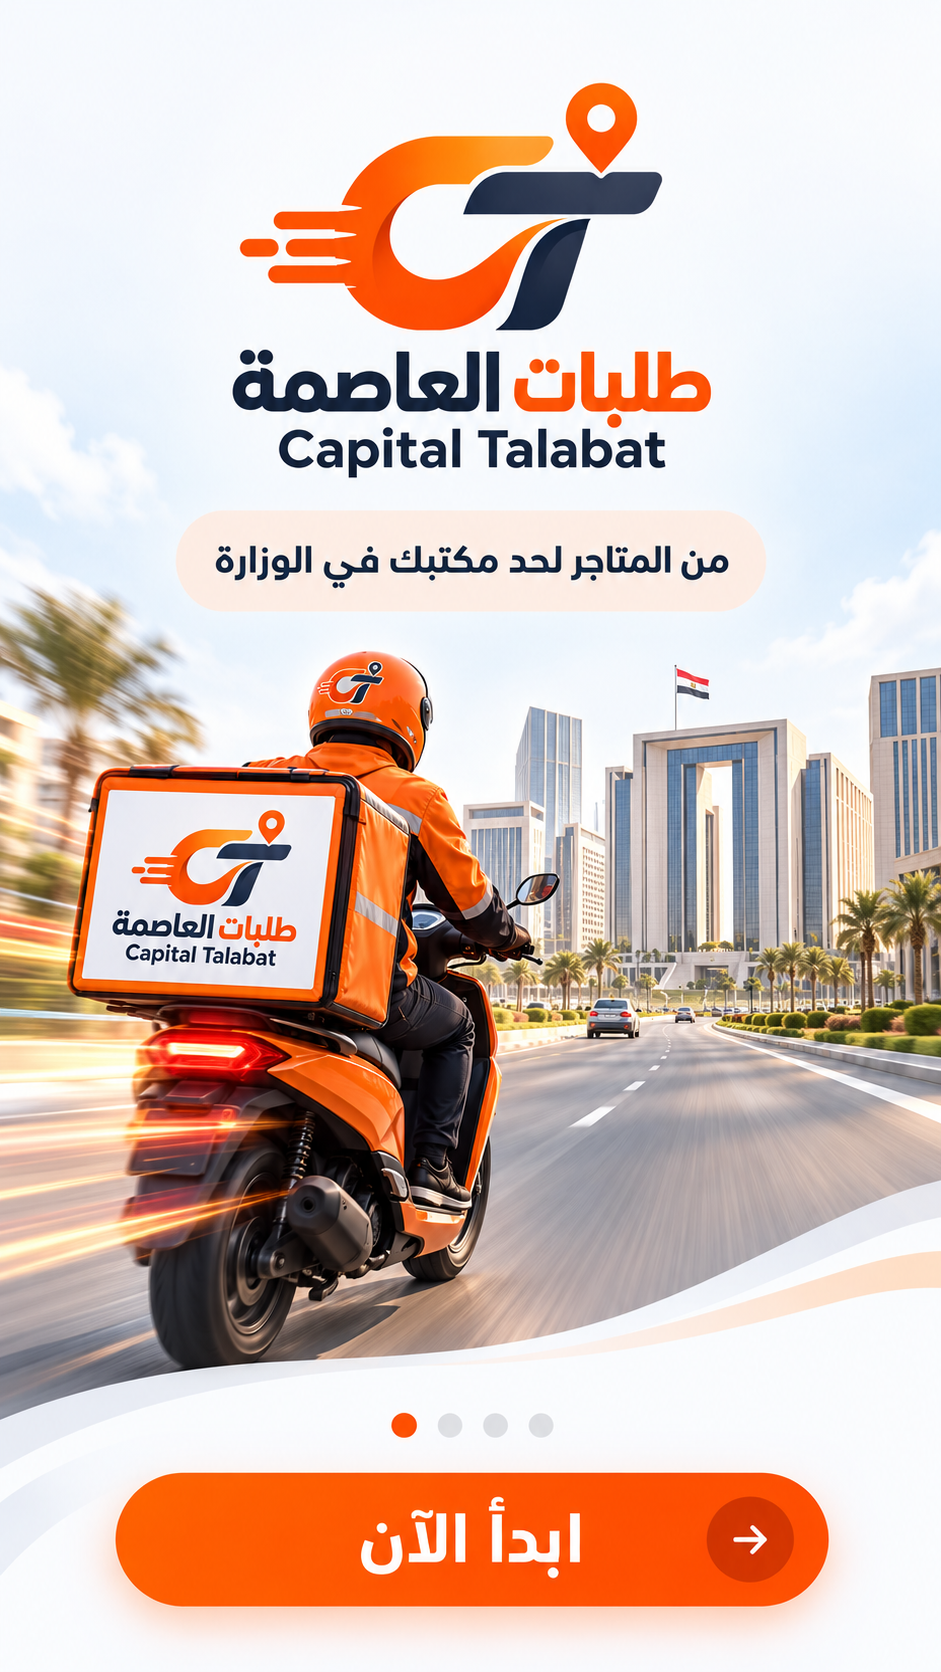
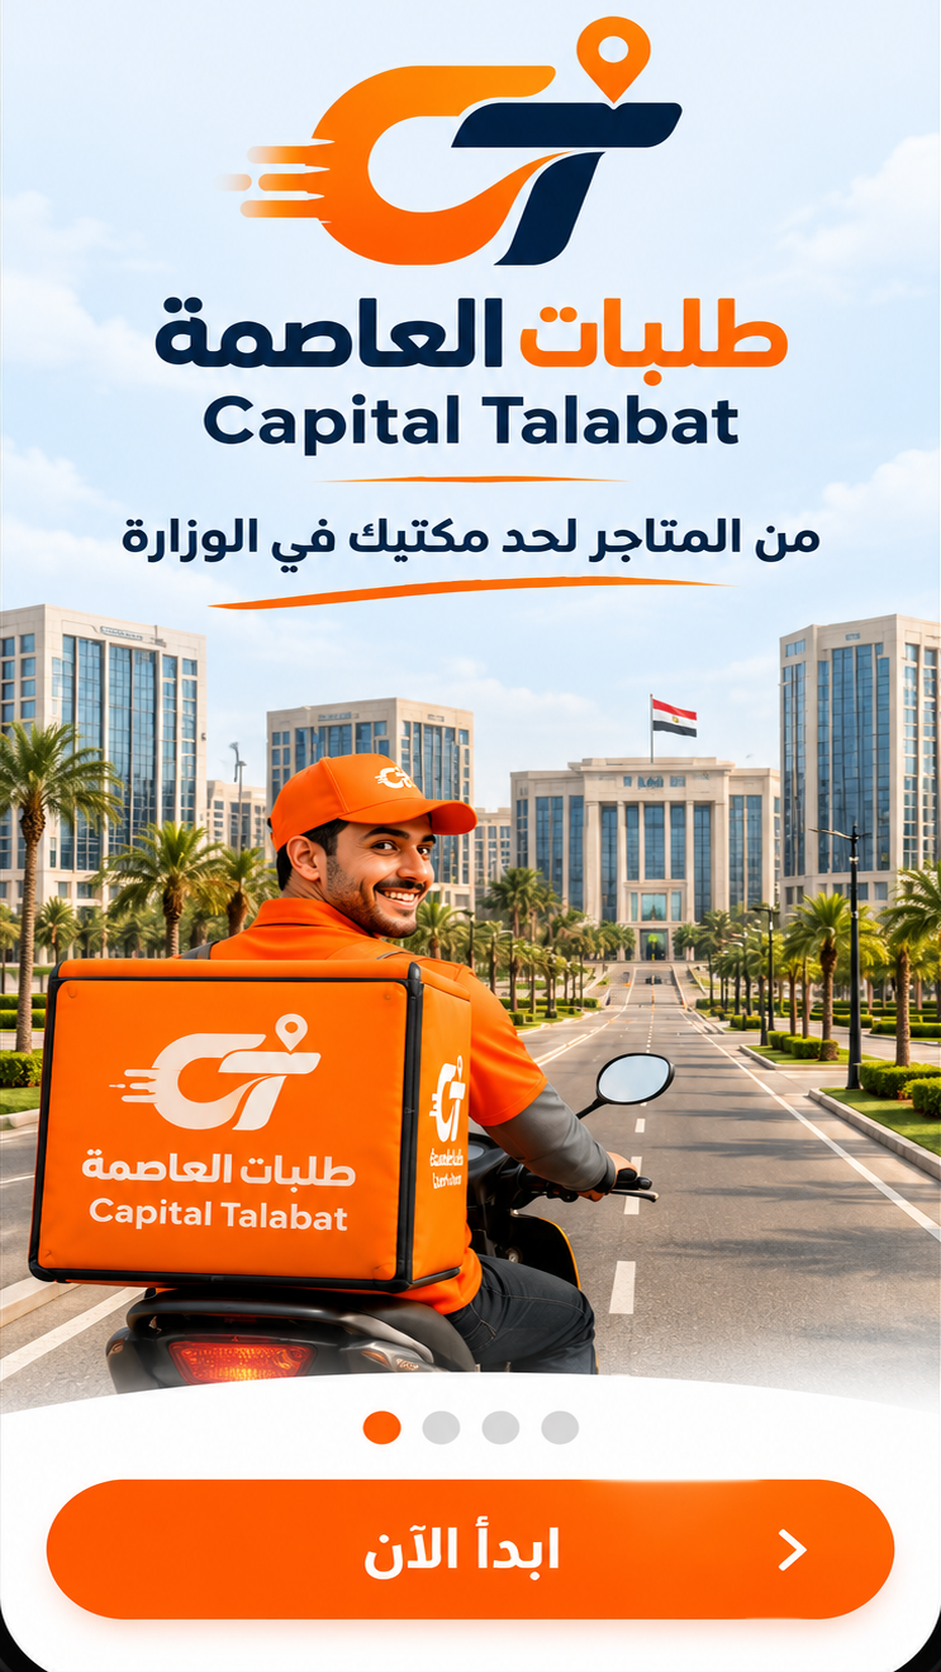
fix(onboarding): replace screen 1 graphic with borderless smiling courier and align tap targets

diff --git a/mobile_app/lib/screens/onboarding/onboarding_screen.dart b/mobile_app/lib/screens/onboarding/onboarding_screen.dart
@@ -73,14 +73,14 @@ class _OnboardingScreenState extends State<OnboardingScreen> {
               if (index == 0) ...[
                 // Screen 1: "ابدأ الآن" full-width orange pill button
                 Positioned(
-                  left: 110,
-                  top: 1400,
-                  width: 720,
-                  height: 210,
+                  left: 45,
+                  top: 1475,
+                  width: 850,
+                  height: 145,
                   child: Material(
                     color: Colors.transparent,
                     child: InkWell(
-                      borderRadius: BorderRadius.circular(105),
+                      borderRadius: BorderRadius.circular(72),
                       splashColor: Colors.white.withValues(alpha: 0.3),
                       highlightColor: Colors.white.withValues(alpha: 0.15),
                       onTap: _goToNextPage,
